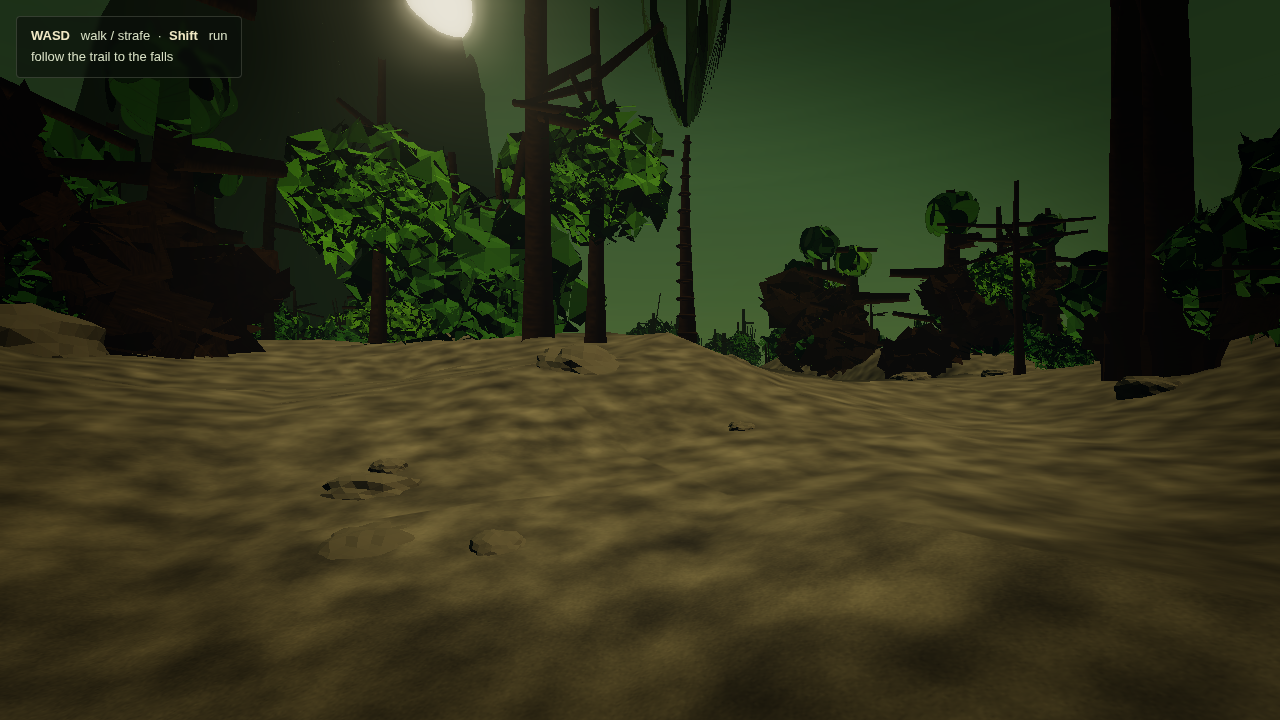
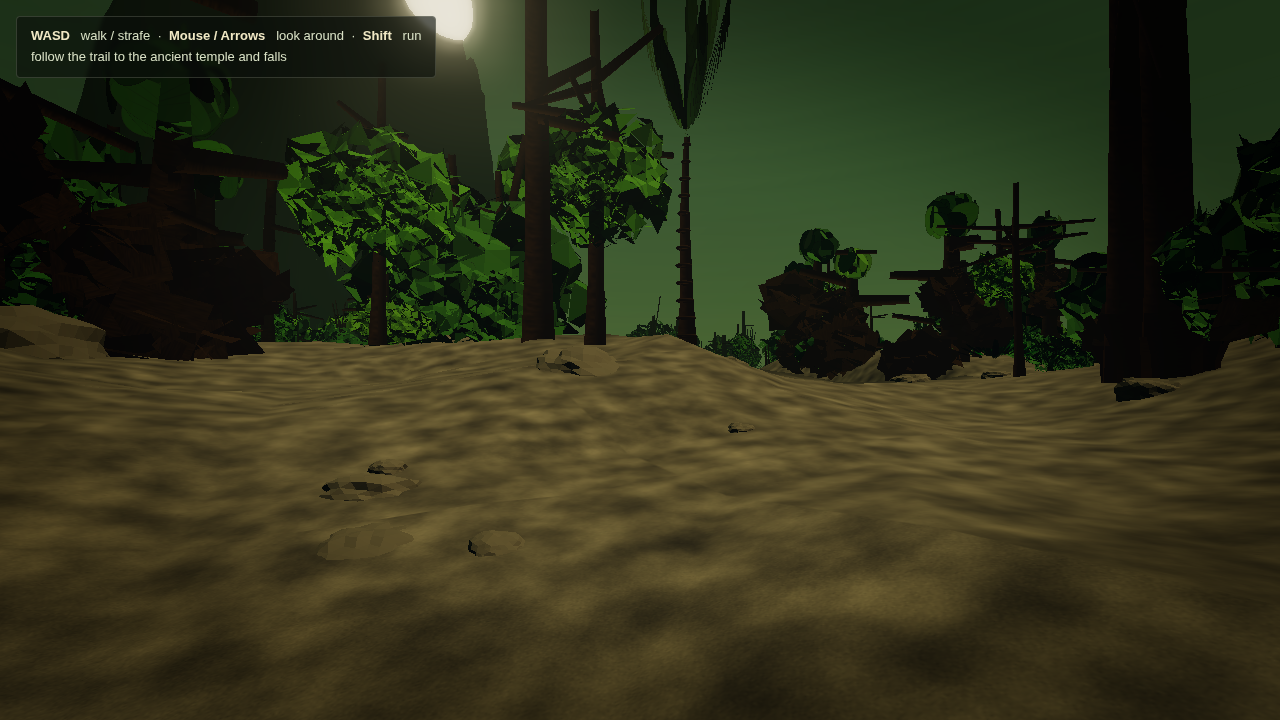
feat: implement organic humanoid walking gait, persistent strafe, and free-look controls

diff --git a/src/main.js b/src/main.js
@@ -23,10 +23,6 @@ import('./sound.js').then(mod => {
   addEventListener('keydown', start);
 });
 
-// render-harness hook (no gameplay effect) — t wraps mod 1 since
-// the trail is now a closed loop
-window.__setT = v => { t = ((v % 1) + 1) % 1; };
-
 // HUD: start at full opacity, fade to barely-visible after 6s, hide
 // entirely on first keypress so it doesn't compete with the view.
 const hud = document.getElementById('hud');
@@ -37,37 +33,108 @@ if (hud) {
   addEventListener('mousedown', dismiss, { once: true });
 }
 
-// player walks the trail spline. Realistic human motion:
-// - smooth velocity acceleration/deceleration (not instant)
-// - vertical head bob (1.7Hz walk, 2.5Hz run)
-// - lateral hip sway
-// - head leads body slightly when starting
+// player walks the trail spline with organic humanoid motion:
+// - continuous velocity acceleration & momentum deceleration
+// - full lateral strafe & roaming across the path (non-springy)
+// - mouse look (pointer lock + drag) and arrow key turning
+// - human gait biomechanics: smooth double-harmonic vertical bob,
+//   single-harmonic lateral hip sway, head roll banking, heel-strike pitch dip
+// - living idle motion (breathing & relaxed postural sway)
 let t = 0.02;
-let strafe = 0;          // lateral offset perpendicular to the path, in metres
-const STRAFE_MAX = 4.0;  // clip so the player can't run off the side of the trail
+let strafe = 0;              // lateral offset perpendicular to the path (metres)
+let strafeVel = 0;           // lateral velocity (metres per second)
+const STRAFE_MAX = 5.5;      // walkable trail corridor width
+const STRAFE_SPEED_WALK = 2.4;
+const STRAFE_SPEED_RUN = 4.0;
+
 // velocity along the trail (t per second), with smooth accel/decel
-let trailVel = 0;       // t-units per second (positive = forward)
-const TRAIL_MAX_WALK = 0.0042;   // ~1.3 m/s on a 320m world
-const TRAIL_MAX_RUN  = 0.010;     // ~3.2 m/s
-const TRAIL_ACCEL = 0.006;        // how fast vel reaches max
-const TRAIL_DECEL = 0.012;        // how fast vel drops to 0 (faster stop)
+let trailVel = 0;            // t-units per second (positive = forward)
+const TRAIL_MAX_WALK = 0.0042; // ~1.3 m/s on a 320m world
+const TRAIL_MAX_RUN  = 0.010;  // ~3.2 m/s
+const TRAIL_ACCEL = 0.007;
+const TRAIL_DECEL = 0.012;
+
+let smoothSpeed = 0;         // smoothed ground speed in m/s for gait transitions
+let stepPhase = 0;           // gait cycle: 0..2*PI (one full stride = 2 steps)
+let lastStepHalf = 0;        // 0 = left step, 1 = right step
+
+// Free-look camera controls (yaw & pitch offsets relative to trail tangent)
+let lookYaw = 0;
+let lookPitch = 0;
+let lastLookInputTime = 0;
+let isPointerLocked = false;
+let isDragging = false;
+let prevMouseX = 0;
+let prevMouseY = 0;
+
+// Pointer lock for immersive first-person look on click
+renderer.domElement.addEventListener('click', () => {
+  if (document.pointerLockElement !== renderer.domElement) {
+    renderer.domElement.requestPointerLock?.();
+  }
+});
+
+document.addEventListener('pointerlockchange', () => {
+  isPointerLocked = (document.pointerLockElement === renderer.domElement);
+});
+
+// Mouse look: supports both pointer-lock and drag
+addEventListener('mousemove', e => {
+  if (isPointerLocked) {
+    lookYaw -= e.movementX * 0.0022;
+    lookPitch -= e.movementY * 0.0022;
+    lookPitch = THREE.MathUtils.clamp(lookPitch, -Math.PI * 0.42, Math.PI * 0.42);
+    lastLookInputTime = performance.now();
+  } else if (isDragging) {
+    const dx = e.clientX - prevMouseX;
+    const dy = e.clientY - prevMouseY;
+    prevMouseX = e.clientX;
+    prevMouseY = e.clientY;
+    lookYaw -= dx * 0.003;
+    lookPitch -= dy * 0.003;
+    lookPitch = THREE.MathUtils.clamp(lookPitch, -Math.PI * 0.42, Math.PI * 0.42);
+    lastLookInputTime = performance.now();
+  }
+});
+
+addEventListener('mousedown', e => {
+  if (e.button === 0 && !isPointerLocked) {
+    isDragging = true;
+    prevMouseX = e.clientX;
+    prevMouseY = e.clientY;
+  }
+});
+
+addEventListener('mouseup', () => {
+  isDragging = false;
+});
+
 const keys = {};
 addEventListener('keydown', e => keys[e.code] = true);
 addEventListener('keyup', e => keys[e.code] = false);
 
-// step phase: increments by 2*PI per second when moving. Drives the
-// vertical bob and lateral sway. At walk speed (1.7Hz) the cycle is
-// ~0.6s. Bob amplitude scales with speed.
-let stepPhase = 0;
+// render-harness hook (no gameplay effect) — resets state for deterministic renders
+window.__setT = v => {
+  t = ((v % 1) + 1) % 1;
+  trailVel = 0;
+  strafe = 0;
+  strafeVel = 0;
+  smoothSpeed = 0;
+  stepPhase = 0;
+  lookYaw = 0;
+  lookPitch = 0;
+};
 
 const clock = new THREE.Clock();
 const _forward = new THREE.Vector3();
 const _right = new THREE.Vector3();
 const _up = new THREE.Vector3(0, 1, 0);
+let camY = 0;
 
 function animate() {
   requestAnimationFrame(animate);
   const dt = Math.min(clock.getDelta(), 0.05);
+
   // System 3: animate lighting / atmosphere
   lighting.update(clock.elapsedTime, dt);
   // System 5: animate water (splash particles, pool texture)
@@ -75,109 +142,156 @@ function animate() {
   // System 6: update sound (spatial volumes based on player t)
   if (sound) sound.update(t, dt);
 
-  // -------- input → desired velocity (target) --------
-  const wantFwd = (keys['KeyW'] || keys['ArrowUp']) ? 1 : 0;
-  const wantBack = (keys['KeyS'] || keys['ArrowDown']) ? 1 : 0;
-  const wantStrafeL = (keys['KeyA'] || keys['ArrowLeft']) ? 1 : 0;
-  const wantStrafeR = (keys['KeyD'] || keys['ArrowRight']) ? 1 : 0;
-  const running = !!keys['ShiftLeft'];
+  // -------- keyboard input --------
+  const wantFwd = keys['KeyW'] ? 1 : 0;
+  const wantBack = keys['KeyS'] ? 1 : 0;
+  const wantStrafeL = keys['KeyA'] ? 1 : 0;
+  const wantStrafeR = keys['KeyD'] ? 1 : 0;
+  const running = !!(keys['ShiftLeft'] || keys['ShiftRight']);
 
-  // target trail velocity (t-units/s)
+  // Keyboard camera turning (Arrow keys or Q/E)
+  const turnSpeed = 1.8;
+  if (keys['ArrowLeft'] || keys['KeyQ']) {
+    lookYaw += turnSpeed * dt;
+    lastLookInputTime = performance.now();
+  }
+  if (keys['ArrowRight'] || keys['KeyE']) {
+    lookYaw -= turnSpeed * dt;
+    lastLookInputTime = performance.now();
+  }
+  if (keys['ArrowUp']) {
+    lookPitch += turnSpeed * dt * 0.6;
+    lookPitch = THREE.MathUtils.clamp(lookPitch, -Math.PI * 0.42, Math.PI * 0.42);
+    lastLookInputTime = performance.now();
+  }
+  if (keys['ArrowDown']) {
+    lookPitch -= turnSpeed * dt * 0.6;
+    lookPitch = THREE.MathUtils.clamp(lookPitch, -Math.PI * 0.42, Math.PI * 0.42);
+    lastLookInputTime = performance.now();
+  }
+
+  // Gentle auto-recenter when moving forward without active look input
+  if (wantFwd && performance.now() - lastLookInputTime > 2000) {
+    lookYaw = THREE.MathUtils.damp(lookYaw, 0, 1.2, dt);
+    lookPitch = THREE.MathUtils.damp(lookPitch, 0, 1.5, dt);
+  }
+
+  // -------- forward/backward trail motion --------
   const maxV = running ? TRAIL_MAX_RUN : TRAIL_MAX_WALK;
   const dir = wantFwd - wantBack;
   const targetVel = dir * maxV;
 
-  // -------- smooth accel/decel of trail velocity --------
-  // accelerate when input present, decelerate (faster) when not
   if (targetVel !== 0) {
-    // ramping up
     const sign = Math.sign(targetVel - trailVel);
-    if (sign > 0) trailVel += TRAIL_ACCEL * dt;
-    else if (sign < 0) trailVel -= TRAIL_ACCEL * dt;
+    trailVel += sign * TRAIL_ACCEL * dt;
   } else {
-    // ramping down toward 0
-    if (trailVel > 0) {
-      trailVel = Math.max(0, trailVel - TRAIL_DECEL * dt);
-    } else if (trailVel < 0) {
-      trailVel = Math.min(0, trailVel + TRAIL_DECEL * dt);
-    }
+    if (trailVel > 0) trailVel = Math.max(0, trailVel - TRAIL_DECEL * dt);
+    else if (trailVel < 0) trailVel = Math.min(0, trailVel + TRAIL_DECEL * dt);
   }
-  // clamp to max
-  trailVel = Math.max(-maxV, Math.min(maxV, trailVel));
+  trailVel = THREE.MathUtils.clamp(trailVel, -maxV, maxV);
 
-  // -------- strafe with same accel/decel model --------
-  const strafeMax = running ? 4.0 : 2.4;
-  const strafeAccel = 6.0;
-  let strafeTarget = (wantStrafeR - wantStrafeL) * strafeMax;
-  // pull-back-to-centre when no strafe input
-  if (strafeTarget === 0) strafeTarget = -strafe * 0.4;  // gentle spring-back
-  // spring toward target
-  strafe += (strafeTarget - strafe) * Math.min(1, dt * strafeAccel);
-  strafe = THREE.MathUtils.clamp(strafe, -STRAFE_MAX, STRAFE_MAX);
+  // -------- lateral strafe motion (persistent, non-springy) --------
+  const wantStrafe = wantStrafeR - wantStrafeL;
+  const maxStrafeV = running ? STRAFE_SPEED_RUN : STRAFE_SPEED_WALK;
+  const targetStrafeVel = wantStrafe * maxStrafeV;
+  const strafeRate = wantStrafe !== 0 ? 10.0 : 12.0;
 
-  // -------- advance t by velocity (closed loop) --------
+  strafeVel = THREE.MathUtils.damp(strafeVel, targetStrafeVel, strafeRate, dt);
+  strafe += strafeVel * dt;
+
+  // Soft boundary constraint so player doesn't clip into world boundary
+  if (Math.abs(strafe) > STRAFE_MAX) {
+    const excess = Math.abs(strafe) - STRAFE_MAX;
+    strafe -= Math.sign(strafe) * excess * Math.min(1.0, dt * 6.0);
+    strafeVel *= 0.7;
+  }
+
+  // -------- advance t along closed trail --------
   t = ((t + trailVel * dt + 1) % 1 + 1) % 1;
 
-  // -------- compute body position along the trail --------
+  // -------- compute position & orientation along trail --------
   const p = TRAIL.getPointAt(t);
-  // look ahead a small distance for the camera direction. The look-ahead
-  // is slightly larger when moving faster (head leads body more at speed).
   const lookAhead = 0.012 + Math.abs(trailVel) * 1.4;
   const lookT = t + Math.sign(trailVel || 0.001) * lookAhead;
   const look = TRAIL.getPointAt(((lookT % 1) + 1) % 1);
 
-  // forward direction in the xz plane (ignore y), then right = forward x up
   _forward.set(look.x - p.x, 0, look.z - p.z).normalize();
   _right.crossVectors(_forward, _up).normalize();
-  // apply strafe offset
+
   const sx = p.x + _right.x * strafe;
   const sz = p.z + _right.z * strafe;
   const groundY = terrainHeight(sx, sz);
 
-  // -------- body bob & sway (only when actually moving) --------
-  // speed (m/s) for the bob frequency: walk ~1.3, run ~3.2
-  const speedAbs = Math.abs(trailVel) * 320;  // convert t-vel to approx m/s
-  // step frequency scales with speed (1.7Hz walk, 2.5Hz run)
-  const stepHz = 1.5 + Math.min(speedAbs / 1.5, 1.0) * 0.9;
-  stepPhase += dt * stepHz * Math.PI * 2;
-  if (stepPhase > Math.PI * 2) stepPhase -= Math.PI * 2;
-  // bob amplitude: 4cm at walk, 9cm at run
-  const bobAmp = (Math.min(speedAbs, 3.2) / 1.3) * 0.04 + 0.02;
-  const headBob = Math.abs(Math.sin(stepPhase)) * bobAmp;
-  // lateral sway: 1.5cm at walk, 2.5cm at run
-  const swayAmp = (Math.min(speedAbs, 3.2) / 1.3) * 0.015 + 0.01;
-  // sway is twice the step freq (each step shifts weight to other side)
-  const headSway = Math.sin(stepPhase * 2) * swayAmp;
-  // sway is along the right vector (lateral shift)
-  const swayX = _right.x * headSway;
-  const swayZ = _right.z * headSway;
+  // -------- realistic humanoid gait & head motion --------
+  const speedMps = Math.abs(trailVel) * 320 + Math.abs(strafeVel);
+  smoothSpeed = THREE.MathUtils.damp(smoothSpeed, speedMps, 7.0, dt);
 
-  // -------- camera position --------
-  // eye height 1.68m, plus bob
-  camera.position.set(sx + swayX, groundY + 1.68 + headBob, sz + swayZ);
-  // camera look: same look point but slightly down when bobbed (head
-  // bobs down so the eye line tilts down briefly)
-  const eyeDrop = headBob * 0.3;  // small downward tilt on each down-step
+  // Step frequency (Hz): ~1.6Hz walk, ~2.5Hz run
+  const stepHz = 1.4 + Math.min(smoothSpeed / 2.2, 1.0) * 1.0;
+  if (smoothSpeed > 0.08) {
+    stepPhase += dt * stepHz * Math.PI * 2;
+    if (stepPhase > Math.PI * 2) stepPhase -= Math.PI * 2;
+  }
+
+  // Double-harmonic smooth vertical head bob (inverted pendulum)
+  const bobFactor = Math.min(smoothSpeed / 1.3, 2.4);
+  const bobAmp = 0.024 + bobFactor * 0.032;
+  const bobWave = (1.0 - Math.cos(stepPhase * 2.0)) * 0.5;
+  const headBob = bobWave * bobAmp;
+
+  // Single-harmonic lateral hip sway (one cycle per stride: left on step 1, right on step 2)
+  const swayAmp = 0.014 + bobFactor * 0.020;
+  const swayWave = Math.sin(stepPhase);
+  const headSway = swayWave * swayAmp;
+
+  // Natural head roll (cervical balance compensation + banking into turns/strafe)
+  const rollFromSway = -swayWave * (0.010 + bobFactor * 0.012);
+  const rollFromStrafe = -(strafeVel / (running ? STRAFE_SPEED_RUN : STRAFE_SPEED_WALK)) * 0.020;
+  const headRoll = rollFromSway + rollFromStrafe;
+
+  // Subtle nodding pitch dip on heel strike
+  const pitchDip = Math.sin(stepPhase * 2.0) * (0.003 + bobFactor * 0.007);
+
+  // Organic idle motion when resting (breathing and gentle weight shifts)
+  const idleWeight = Math.max(0, 1.0 - smoothSpeed / 0.4);
+  const breatheY = Math.sin(clock.elapsedTime * 1.6) * 0.009 * idleWeight;
+  const idleSwayX = Math.sin(clock.elapsedTime * 0.8) * 0.005 * idleWeight;
+  const idlePitch = Math.sin(clock.elapsedTime * 1.6) * 0.003 * idleWeight;
+
+  const totalSwayX = _right.x * (headSway + idleSwayX);
+  const totalSwayZ = _right.z * (headSway + idleSwayX);
+
+  // Camera height with smooth ground following (damps terrain mesh polygon seams)
+  const targetCamY = groundY + 1.68 + headBob + breatheY;
+  if (camY === 0) camY = targetCamY;
+  else camY = THREE.MathUtils.damp(camY, targetCamY, 15.0, dt);
+
+  camera.position.set(sx + totalSwayX, camY, sz + totalSwayZ);
+
+  // Base look direction facing forward along the trail
   const targetLook = new THREE.Vector3(
-    look.x + swayX,
-    terrainHeight(look.x, look.z) + 1.5 - eyeDrop,
-    look.z + swayZ
+    look.x + totalSwayX,
+    terrainHeight(look.x, look.z) + 1.5,
+    look.z + totalSwayZ
   );
   camera.lookAt(targetLook);
 
-  // -------- trigger footstep sounds on each step --------
-  // detect the moment the step phase crosses PI (i.e. each footfall)
-  if (sound && speedAbs > 0.2) {
-    if (Math.sin(stepPhase) < -0.95 && (sound._lastStepT === undefined || clock.elapsedTime - sound._lastStepT > 0.3)) {
+  // Apply free-look yaw/pitch and head roll on top
+  camera.rotateOnWorldAxis(_up, lookYaw);
+  camera.rotateX(lookPitch + pitchDip + idlePitch);
+  camera.rotateZ(headRoll);
+
+  // -------- footstep audio triggering on actual footfalls --------
+  if (sound && smoothSpeed > 0.3) {
+    const currentHalf = Math.floor((stepPhase / Math.PI) % 2);
+    if (currentHalf !== lastStepHalf && (clock.elapsedTime - (sound._lastStepT || 0) > 0.24)) {
       sound.step(running ? 'run' : 'walk');
       sound._lastStepT = clock.elapsedTime;
+      lastStepHalf = currentHalf;
     }
   }
 
-  // System 7: render through the post-processing composer.
-  // Pass the visible sun disk's world position (the bright sphere that
-  // the screen-space god rays need to project from) rather than the
-  // directional light's nominal position.
+  // System 7: render through post-processing composer
   const sunWorldPos = (lighting && lighting.sunDisk)
     ? lighting.sunDisk.position.clone()
     : new THREE.Vector3(-50, 130, -30);

diff --git a/index.html b/index.html
@@ -33,8 +33,8 @@
 </head>
 <body>
 <div id="hud">
-  <div class="row"><b>WASD</b> &nbsp; walk / strafe &nbsp;·&nbsp; <b>Shift</b> &nbsp; run</div>
-  <div class="row">follow the trail to the falls</div>
+  <div class="row"><b>WASD</b> &nbsp; walk / strafe &nbsp;&middot;&nbsp; <b>Mouse / Arrows</b> &nbsp; look around &nbsp;&middot;&nbsp; <b>Shift</b> &nbsp; run</div>
+  <div class="row">follow the trail to the ancient temple and falls</div>
 </div>
 <script type="module" src="./src/main.js"></script>
 </body>
